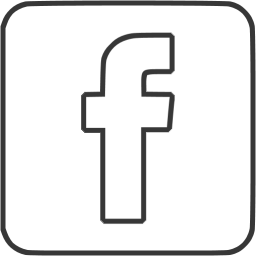
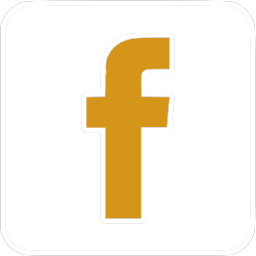
Switched to yellow color scheme.

Changed region(s): [[0.3125, 0.125, 0.6875, 0.875], [0.0, 0.0, 1.0, 1.0]]

diff --git a/index.css b/index.css
@@ -1,12 +1,12 @@
 h1 {
   padding-left: 10px;
-  color: #c0b283;
-  font-family: 'Abril Fatface', cursive;
+  color: #373737;
+  font-family: 'Oswald', sans-serif;
   display: inline;
 }
 
 body {
-  background-color: #f4f4f4;
+  background-color: #fbc81f;
   padding: 0;
   margin: 0;
   font-family: 'Oswald', sans-serif;
@@ -65,7 +65,7 @@ p {
 }
 
 h2 {
-  color: #dcd0c0;
+  color: #d5951a;
   width: 60%;
   text-align: left;
   font-family: 'Oswald', sans-serif;
@@ -82,22 +82,22 @@ h2 {
   color: #373737;
 }
 
+.nav-tabs .nav-item.show .nav-link, .nav-tabs .nav-link.active {
+  color: #272727;
+  background-color: #fff;
+  border-color: #ddd #ddd #fff;
+}
+
 .nav-link:hover {
-  color: #f4f4f4;
-  background-color: #373737;
+  color: #272727;
+  background-color: #f0f0f0;
 }
 
 #video {
   display: block;
-  border: 3px solid #f4f4f4;
-}
-
-#video-border {
+  border: 10px solid #fff;
+  margin: 5px;
   margin-top: 40px;
-  margin-bottom: 10px;
-  width: 570px;
-  height: 325px;
-  border: 5px solid #373737;
 }
 
 #lmu {
@@ -108,12 +108,47 @@ h2 {
   float: right;
 }
 
-#banner {
-  border-bottom: 2px solid #ccc;
-  position: fixed;
-  padding: 10px;
-  margin: 0;
+html {
+  font-family: 'Roboto Condensed';
+  color: #fff;
+  background: #fafafa;
+}
+
+.header {
+  z-index: 1;
+  position: relative;
+}
+
+.header .skew:before {
+  content: '';
+  position: absolute;
+  left: 0;
+  bottom: 0;
+  overflow: visible;
   width: 100%;
-  background-color: #373737;
-  display: inline;
+  height: 250px;
+  background: #fab91d;
+  z-index: -1;
+  -webkit-transform: skewY(-2deg);
+  -moz-transform: skewY(-2deg);
+  -ms-transform: skewY(-2deg);
+  -o-transform: skewY(-2deg);
+  transform: skewY(-2deg);
+  -webkit-backface-visibility: hidden;
+  backface-visibility: initial;
+}
+
+.header .skew .header-inner {
+  padding: 20px;
+  margin-left: auto;
+  margin-right: auto;
+}
+
+.logo {
+  margin: 0;
+}
+
+.logo a {
+  color: #fff;
+  text-decoration: none;
 }

diff --git a/index.html b/index.html
@@ -6,13 +6,22 @@
     <link rel="stylesheet" href="https://maxcdn.bootstrapcdn.com/bootstrap/4.0.0-beta.2/css/bootstrap.min.css" integrity="sha384-PsH8R72JQ3SOdhVi3uxftmaW6Vc51MKb0q5P2rRUpPvrszuE4W1povHYgTpBfshb" crossorigin="anonymous">
     <link rel="stylesheet" href="index.css">
     <link href="https://fonts.googleapis.com/css?family=Abril+Fatface|Oswald|Roboto+Condensed" rel="stylesheet">
-    <title>Diversity and Inclusion</title>
+
+    <link rel="icon" href="./favicon.ico" type="image/x-icon"/>
+    <title>Unite.</title>
   </head>
 
+  <header class="header" id="header">
+  <div class="skew">
+      <div class="header-inner">
+        <h1 class="logo"><big>
+          <a href="/">Unite.</a></big></h1>
+      </div>
+  </div>
+  </header>
+
   <body>
-    <div id="banner"><h1>Different.</h1><img id="lmu" src="lmu.png" alt="LMU"/></div>
     <center>
-      <div id="space" style="background-color:#f4f4f4"></div>
       <div id="video-border">
         <iframe width="560" height="315" id="video" src="https://www.youtube.com/embed/4Z8WnxAmiCI" frameborder="0" allowfullscreen></iframe>
       </div>
@@ -60,7 +69,7 @@
             people who are more like ourselves and away from us who are not.
             We hope that this project will help you to become aware of your biases
              that inhibit you from experiencing difference.</p>
-           <h2>Change.</h2>
+           <h2>Unite.</h2>
            <p>
              Be inclusive towards those who are different than yourself.
              Reflect. How has diversity positively impacted the world around you?</p>
